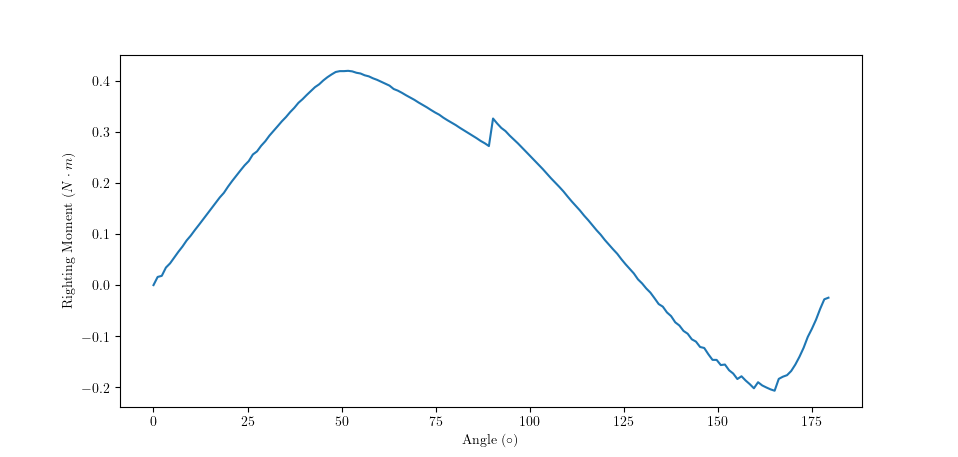
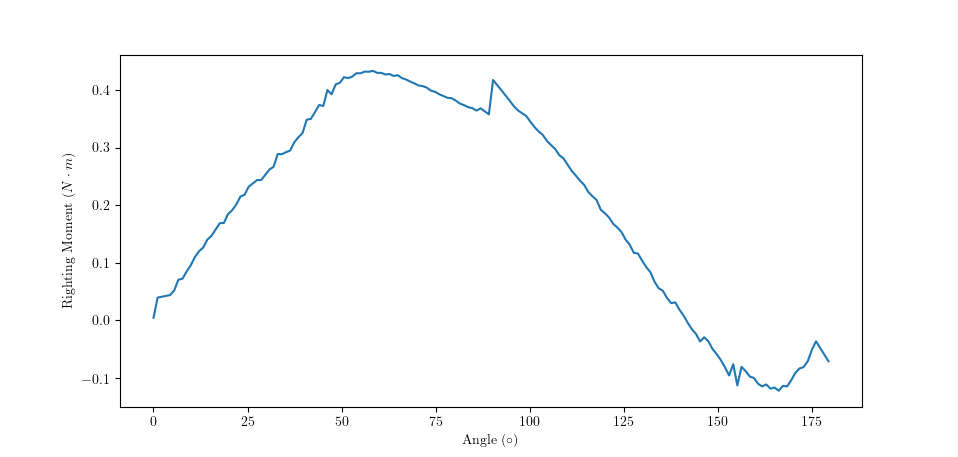
commit

diff --git a/boatdebug.py b/boatdebug.py
@@ -36,13 +36,13 @@ import numpy as np
 # cg = np.array([0,0,.5])
 
 D = .075
-W = .15
+W = .132
 L = .5842
 m = 1
-ds = .003
-# 130: cg = np.array([0, 0, .01070])
-# cg = np.array([0, 0, .023])
-# cg = np.array([0, 0, -.001])
+ds = .005
+# cg = np.array([0, 0, .0199])
+# cg = np.array([0, 0, 0.026])
+cg = np.array([0, 0, 0.0072])
 
 X, Y, Z = np.meshgrid(np.arange(-L / 2, L / 2, ds),
                       np.arange(-W / 2, W / 2, ds),
@@ -56,7 +56,7 @@ def hull(x, y):
     # r = W / 2
     # r = 0.075
     # return 0.05 * np.tan(np.abs(22 * y) - .9) + .01
-    return .018 * np.tan(np.abs(33 * y) - 1.2) + .005
+    return .012 * np.tan(np.abs(39 * y) - 1.2) + .01
     # return y
     # return 75 * np.tan(np.abs(y) / .075 * 1.2 - .6) + .01
     # return np.tan(y)
